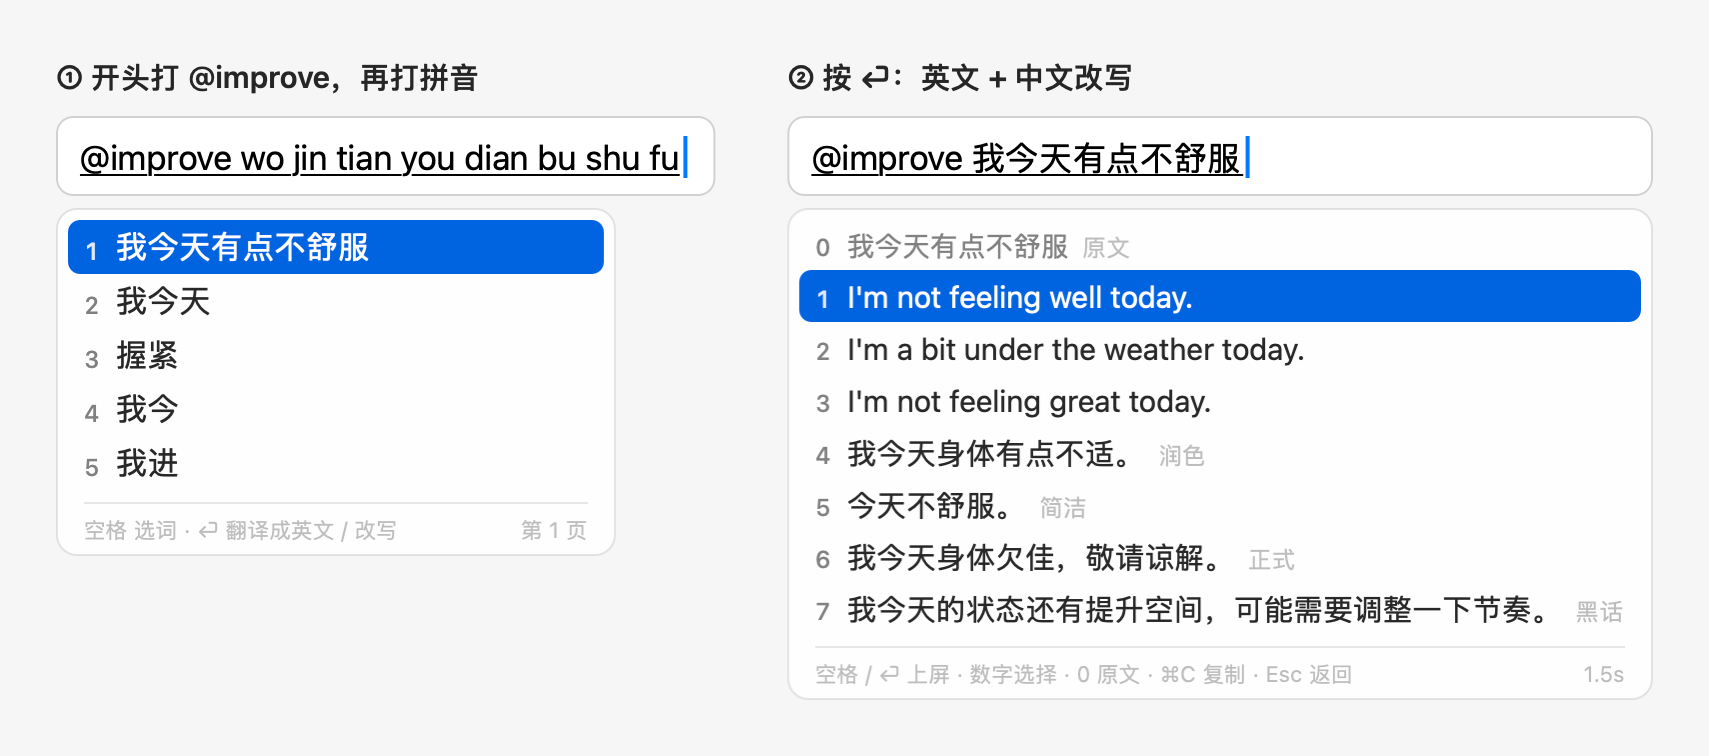
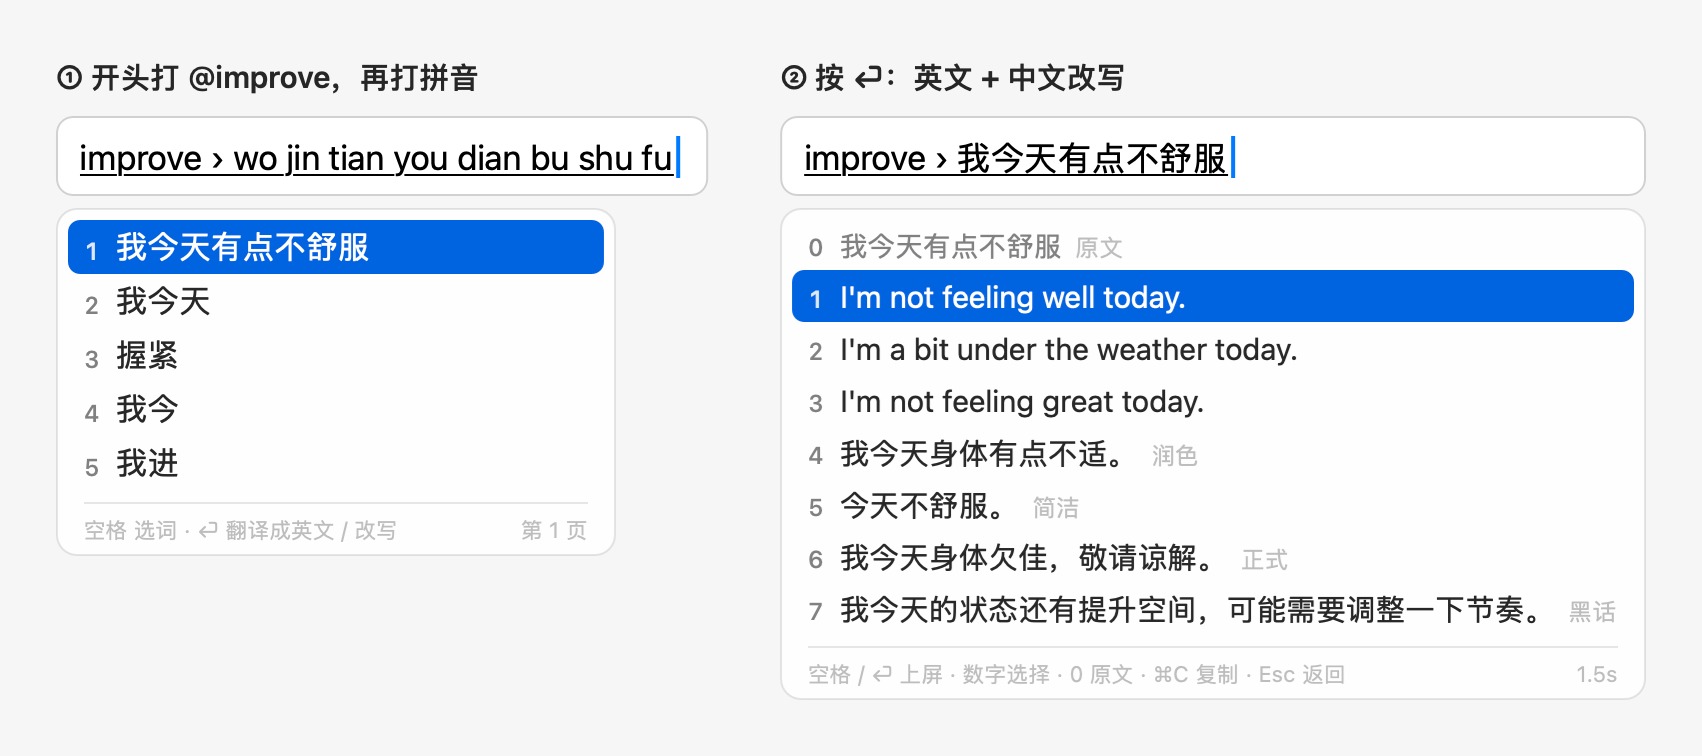
Self-test and README images: 0.3.0's command display
0.3.0 shows a command as "improve › …" while it is typed (no "@" for Slack to turn into a mention)
and has a fifth built-in command, @read. The self-test still expected "@improve …" and four
commands, so its checks of what is shown while typing failed on 0.3.0 as released (the run that
found them had 13 failures in all; some of those came from the screen being locked, not from
this); the ⌘V checks also waited for the old text and read the marked text too early. They expect
the new display now (what is inserted is still the text as typed).

The README composites draw the inline text the same way, and the images are regenerated: the
settings window without the sentence-mode switches, the command list with @read and the new
@improve summary.

an empty message aborts the commit. # # Date: Fri Oct 9 18:22:51 2026 -0700 # # interactive rebase
in progress; onto 7f401cc # Last commands done (3 commands done): # pick ea5a919 # README and
changelog: sentence mode is gone # reword ab12c70 # Self-test and README images: 0.3.0's command
display # Next commands to do (5 remaining commands): # pick 973893e # Add @note, @reminder and
keyword search for @open (first pass) # pick 2e0c99a # @note, @reminder, @open: fixes from the
reviews # You are currently editing a commit while rebasing branch '0.5.0/commands' on '7f401cc'.
Sources/AllInOneIME/SelfTest.swift # modified: docs/commands.png # modified: docs/demo.png #
[…]

diff --git a/Sources/AllInOneIME/SelfTest.swift b/Sources/AllInOneIME/SelfTest.swift
@@ -153,7 +153,7 @@ enum SelfTest {
         press(c, client, "@", code: 0x13, flags: .shift)  // ⇧2
         type("i", c, client)
         press(c, client, "\t", code: VirtualKey.tab)
-        return client.marked == "@improve "
+        return client.marked == "improve › "
     }
 
     /// The hint shown under a draft in `input`, for the current action key and interface language.
@@ -333,7 +333,7 @@ enum SelfTest {
         let sentence = "this is a blocker bug your team need fix it asap"
         improve(controller, client)
         type(sentence, controller, client)
-        check(client.marked == "@improve " + sentence && controller.composer.isLatinDraft,
+        check(client.marked == "improve › " + sentence && controller.composer.isLatinDraft,
               "English collects into the @improve draft (\(client.marked))")
         check(space(controller, client) && controller.composer.draft.hasSuffix(" ") && !controller.composer.isLevelTwo,
               "Space after a word is a space")
@@ -521,7 +521,7 @@ enum SelfTest {
         if dictate(chineseAudio, snapshotName: "8-voice") {
             let draft = controller.composer.draft
             check(draft.hasPrefix(before) && draft.wordingKey.contains("不舒服"), "transcript continues the draft: \(draft)")
-            check(client.marked == draft, "draft shown inline")
+            check(client.marked == draft.replacingOccurrences(of: "@improve ", with: "improve › "), "draft shown inline")
             act(controller, client)
             if finishConversion(controller, "voice → translation") {
                 check(controller.composer.choices.filter { $0.kind == .version }.count == 3, "3 English versions of the spoken sentence")
@@ -599,12 +599,12 @@ enum SelfTest {
         settle()
         at()
         let commands = controller.panelModel().rows.map(\.text)
-        check(client.marked == "@" && commands == ["@improve", "@question", "@claude", "@open"],
+        check(client.marked == "@" && commands == ["@improve", "@question", "@claude", "@open", "@read"],
               "@ opens the command palette (\(commands))")
         readmeSnapshot("10-palette", controller, client, in: snapshotDirectory)
         type("q", controller, client)
         _ = enter(controller, client)
-        check(client.marked == "@question ", "⏎ picks @question ('\(client.marked)')")
+        check(client.marked == "question › ", "⏎ picks @question ('\(client.marked)')")
         type("shenmeshiliangzijisuan", controller, client)  // 什么是量子计算: what is quantum computing
         _ = enter(controller, client)  // converts the pinyin and asks
         if finishConversion(controller, "@question") {
@@ -636,7 +636,7 @@ enum SelfTest {
         _ = space(controller, client)
         type("nihao", controller, client)
         _ = enter(controller, client)
-        check(terminal.count == 1 && client.marked == "@claude 你好",
+        check(terminal.count == 1 && client.marked == "claude › 你好",
               "@claude doesn't start Claude Code while secure input is on (\(client.marked))")
         controller.secureInputActive = secureInput
         _ = enter(controller, client)
@@ -847,7 +847,7 @@ enum SelfTest {
         press(controller, client, "@", code: 0x13, flags: .shift)
         type("i", controller, client)
         _ = enter(controller, client)
-        check(client.marked == "@improve ", "@i ⏎ picks @improve ('\(client.marked)')")
+        check(client.marked == "improve › ", "@i ⏎ picks @improve ('\(client.marked)')")
         type("wojintianyoudianbushufu", controller, client)
         check(controller.panelModel().footer == "空格 选词 · ⏎ 翻译成英文 / 改写", "the footer names the command (\(controller.panelModel().footer))")
         readmeSnapshot("1b-sentence-pinyin", controller, client, in: snapshotDirectory)
@@ -872,8 +872,8 @@ enum SelfTest {
         _ = enter(controller, client)
         let insertedBefore = client.inserted.count
         check(press(controller, client, "v", code: 0x09, flags: .command), "⌘V in the command is the input method's (the app doesn't paste)")
-        _ = pump(timeout: 1) { client.marked != "@improve " }  // the clipboard is read once the key is answered
-        check(client.marked == "@improve 这个项目的进度太慢了我们需要尽快想办法" && client.inserted.count == insertedBefore,
+        _ = pump(timeout: 1) { client.marked != "improve › " }  // the clipboard is read once the key is answered
+        check(client.marked == "improve › 这个项目的进度太慢了我们需要尽快想办法" && client.inserted.count == insertedBefore,
               "the clipboard's text goes into the command, as one line ('\(client.marked)')")
         _ = enter(controller, client)
         if finishConversion(controller, "@improve on pasted text") {
@@ -899,8 +899,8 @@ enum SelfTest {
         press(controller, client, "@", code: 0x13, flags: .shift)
         type("i", controller, client)
         _ = enter(controller, client)
-        check(enter(controller, client) && pump(timeout: 1) { client.marked != "@improve " }
-              && client.marked == "@improve 这个项目的进度太慢了我们需要尽快想办法" && !controller.composer.isLevelTwo,
+        check(enter(controller, client) && pump(timeout: 1) { client.marked != "improve › " }
+              && client.marked == "improve › 这个项目的进度太慢了我们需要尽快想办法" && !controller.composer.isLevelTwo,
               "⏎ on the empty command shows the clipboard's text in it (\(client.marked))")
         _ = enter(controller, client)
         _ = pump(timeout: 3) { controller.composer.phase == .choosing }
@@ -916,7 +916,7 @@ enum SelfTest {
         let insertedBeforeControlV = client.inserted.count
         check(press(controller, client, "v", code: 0x09, flags: .control)
               && pump(timeout: 1) { client.marked.hasSuffix("想办法") }
-              && client.marked == "@improve 你好这个项目的进度太慢了我们需要尽快想办法" && client.inserted.count == insertedBeforeControlV,
+              && client.marked == "improve › 你好这个项目的进度太慢了我们需要尽快想办法" && client.inserted.count == insertedBeforeControlV,
               "in a terminal ⌃V adds the clipboard's text after what was typed (\(client.marked))")
         _ = escape(controller, client)
         client.bundleIDOverride = nil
@@ -959,7 +959,7 @@ enum SelfTest {
         check(improve(controller, client), "@i Tab starts an @improve draft ('\(client.marked)')")
         type("nihao", controller, client)
         _ = space(controller, client)
-        check(client.marked == "@improve 你好" && controller.composer.draft == "@improve 你好",
+        check(client.marked == "improve › 你好" && controller.composer.draft == "@improve 你好",
               "Space confirms 你好 into the command (not inserted yet)")
         check(controller.panelModel().status == draftHint(controller, input: .chinese),
               "the hint names the action key (\(controller.panelModel().status))")
@@ -986,7 +986,7 @@ enum SelfTest {
         check(!press(controller, client, "a", code: 0x00), "letters go straight to the app")
         improve(controller, client)
         type("ok", controller, client)
-        check(client.marked == "@improve ok" && controller.composer.isLatinDraft, "after @improve, letters go into the command")
+        check(client.marked == "improve › ok" && controller.composer.isLatinDraft, "after @improve, letters go into the command")
         check(shiftEnter(controller, client) && client.inserted.last == "@improve ok" && client.marked.isEmpty,
               "⇧⏎ inserts the English command as typed")
         improve(controller, client)
@@ -1021,7 +1021,7 @@ enum SelfTest {
         snapshot("2b-sentence-draft", in: snapshotDirectory)
         let started = Date()
         check(act(controller, client), "the action key starts the translation")
-        check(panel.isVisible && client.marked == "@improve " + sentence, "panel visible, the command stays marked")
+        check(panel.isVisible && client.marked == "improve › " + sentence, "panel visible, the command stays marked")
         var streamingSnapshotTaken = false
         let finished = pump(timeout: 20) {
             if !streamingSnapshotTaken, case .translating = controller.composer.phase,
@@ -1068,7 +1068,7 @@ enum SelfTest {
         _ = space(controller, client)
         act(controller, client)  // translation starts
         type("ma", controller, client)  // keep typing instead of choosing
-        check(controller.composer.phase == .drafting && client.marked.hasPrefix("@improve 你好"), "back to the draft (\(client.marked))")
+        check(controller.composer.phase == .drafting && client.marked.hasPrefix("improve › 你好"), "back to the draft (\(client.marked))")
         _ = space(controller, client)
         check(controller.composer.draft == "@improve 你好吗", "sentence is now 你好吗 (\(controller.composer.draft))")
         _ = shiftEnter(controller, client)
@@ -1183,7 +1183,7 @@ enum SelfTest {
         // Space asks again (the model is still invalid, so it fails again).
         check(space(controller, client) && !failed() && pump(timeout: 15) { failed() }, "Space retries")
         _ = escape(controller, client)
-        check(controller.composer.phase == .drafting && client.marked == "@improve 测试", "Esc returns to the draft")
+        check(controller.composer.phase == .drafting && client.marked == "improve › 测试", "Esc returns to the draft")
         controller.commitComposition(client)
         check(client.inserted.last == "@improve 测试" && controller.composer.phase == .idle, "commitComposition inserts the draft")
 

diff --git a/Scripts/make-readme-images.swift b/Scripts/make-readme-images.swift
@@ -106,35 +106,35 @@ func composite(_ steps: [Step], to name: String) throws {
 
 try composite([
     Step(caption: tr("① 开头打 @improve，再打拼音", "① Type @improve, then pinyin"),
-         marked: "@improve wo jin tian you dian bu shu fu", panel: load("1b-sentence-pinyin")),
+         marked: "improve › wo jin tian you dian bu shu fu", panel: load("1b-sentence-pinyin")),
     Step(caption: tr("② 按 ⏎：英文 + 中文改写", "② Press ⏎: English + Chinese rewrites"),
-         marked: "@improve 我今天有点不舒服", panel: load("4-final-light")),
+         marked: "improve › 我今天有点不舒服", panel: load("4-final-light")),
 ], to: "demo.png")
 
 try composite([
     Step(caption: tr("@improve 加英文：英文润色（含黑话）", "@improve with English: English polish (incl. Jargon)"),
-         marked: "@improve this is a blocker bug your team need fix it asap", panel: load("7-english-light")),
+         marked: "improve › this is a blocker bug your team need fix it asap", panel: load("7-english-light")),
     Step(caption: tr("输出设成中文：中文润色 + 改写", "Output set to Chinese: Chinese polish + rewrites"),
-         marked: "@improve 这个项目的进度太慢了", panel: load("7b-chinese-output")),
+         marked: "improve › 这个项目的进度太慢了", panel: load("7b-chinese-output")),
 ], to: "english.png")
 
 try composite([
     Step(caption: tr("先打 @improve，再按住右 ⌥ 说话", "Type @improve, then hold right ⌥ to talk"),
-         marked: "@improve 我今天有", panel: load("8-voice")),
+         marked: "improve › 我今天有", panel: load("8-voice")),
 ], to: "voice.png")
 
 try composite([
     Step(caption: tr("① 开头打 @：命令列表，打字母筛选", "① Type @ first: the command list; letters filter it"),
          marked: "@", panel: load("10-palette")),
     Step(caption: tr("② @question 加问题，按 ⏎：回答", "② @question and a question, press ⏎: the answer"),
-         marked: "@question 什么是量子计算", panel: load("11-question")),
+         marked: "question › 什么是量子计算", panel: load("11-question")),
 ], to: "commands.png")
 
 try composite([
     Step(caption: tr("① @open 加名字：边打边找", "① @open and a name: results as you type"),
-         marked: "@open calculator", panel: load("12-open")),
+         marked: "open › calculator", panel: load("12-open")),
     Step(caption: tr("② 以 / 开头是路径：列出文件夹，Tab 补全", "② A path (starts with /): lists the folder, Tab completes"),
-         marked: "@open /System/Applications/", panel: load("12b-open-path")),
+         marked: "open › /System/Applications/", panel: load("12b-open-path")),
 ], to: "open.png")
 
 for (from, to) in [("4-final-dark", "panel-dark.png"), ("6-settings", "settings.png")] {
